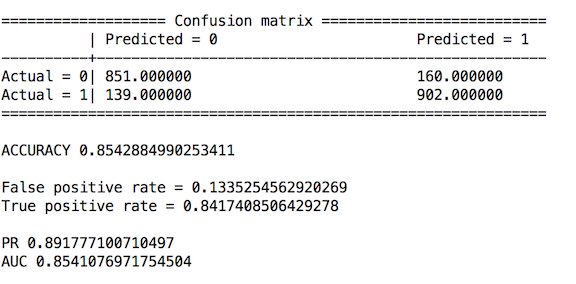
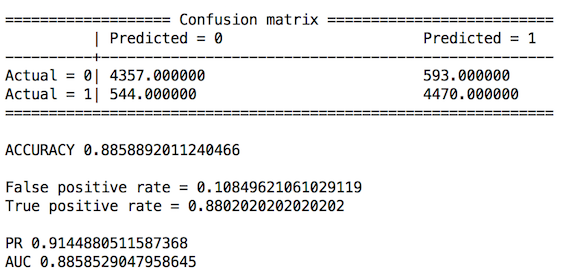
readme

diff --git a/README.md b/README.md
@@ -1,6 +1,6 @@
-TF-IDF with Spark for https://www.kaggle.com/c/word2vec-nlp-tutorial 
+TF-IDF with Stanford NLP and Spark for https://www.kaggle.com/c/word2vec-nlp-tutorial 
 
-Results are not as good as using sklearn (Python).
+Results (on test data) are not as good as using sklearn with 3-grams (Python).
 
 ![ ](results.png)
 
